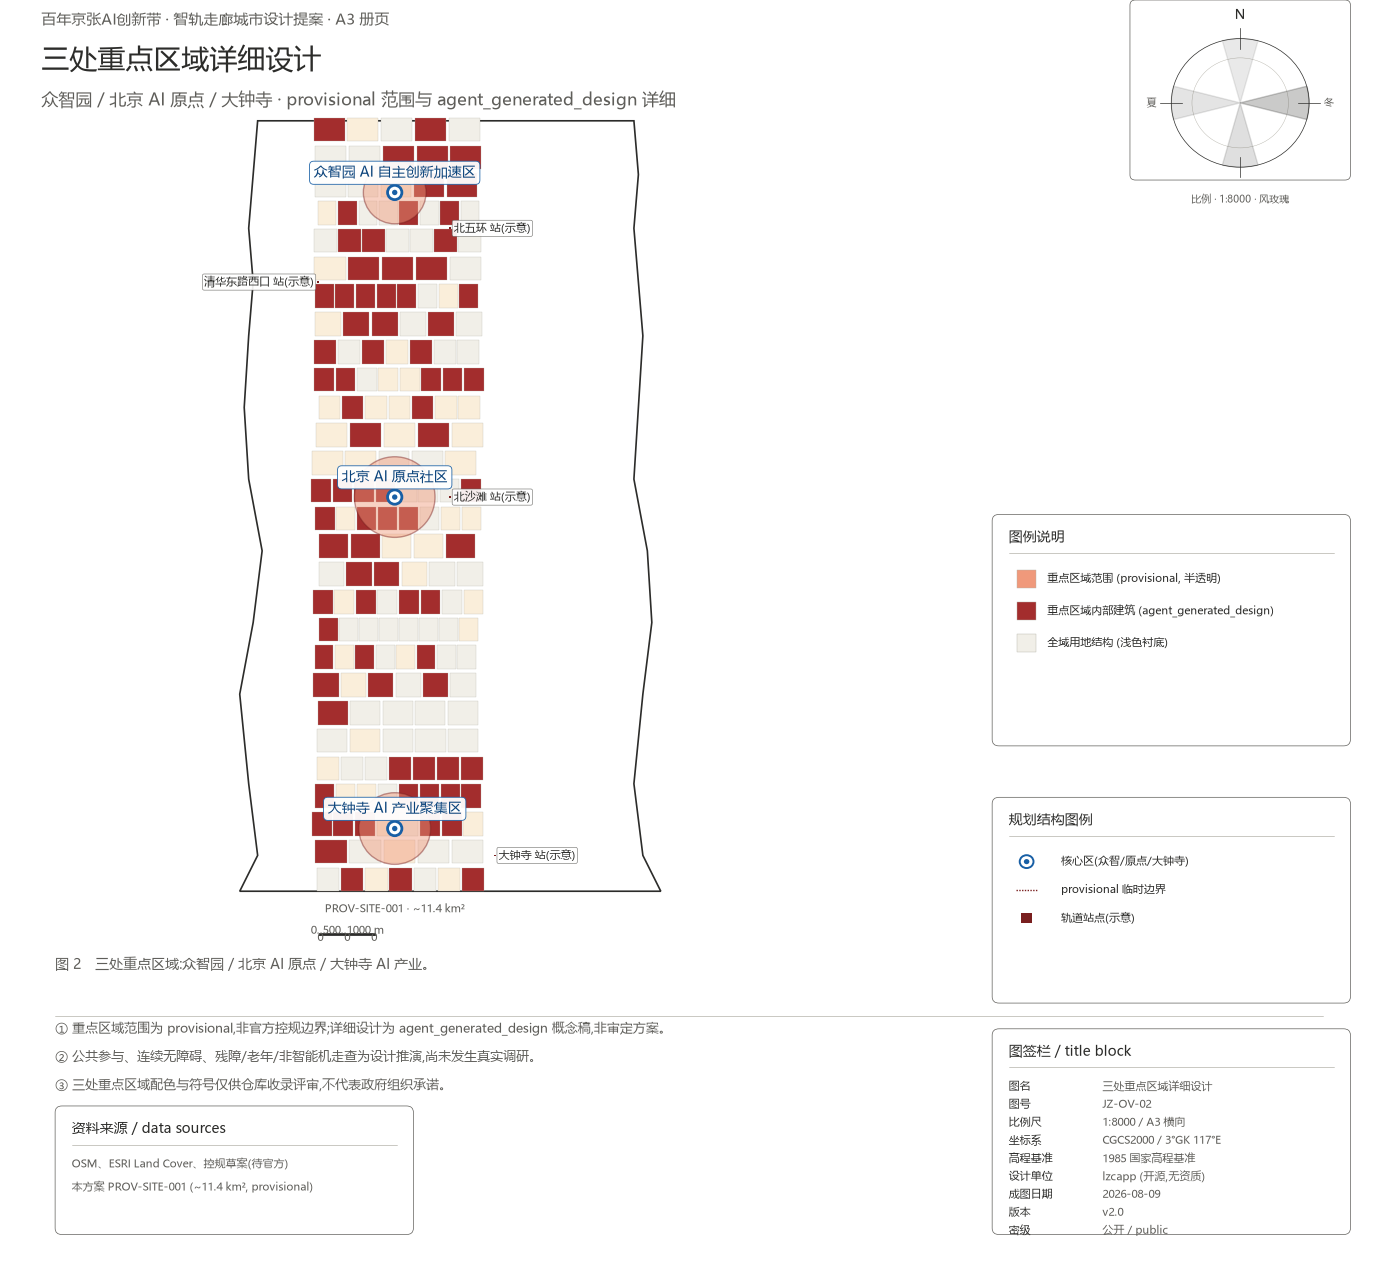
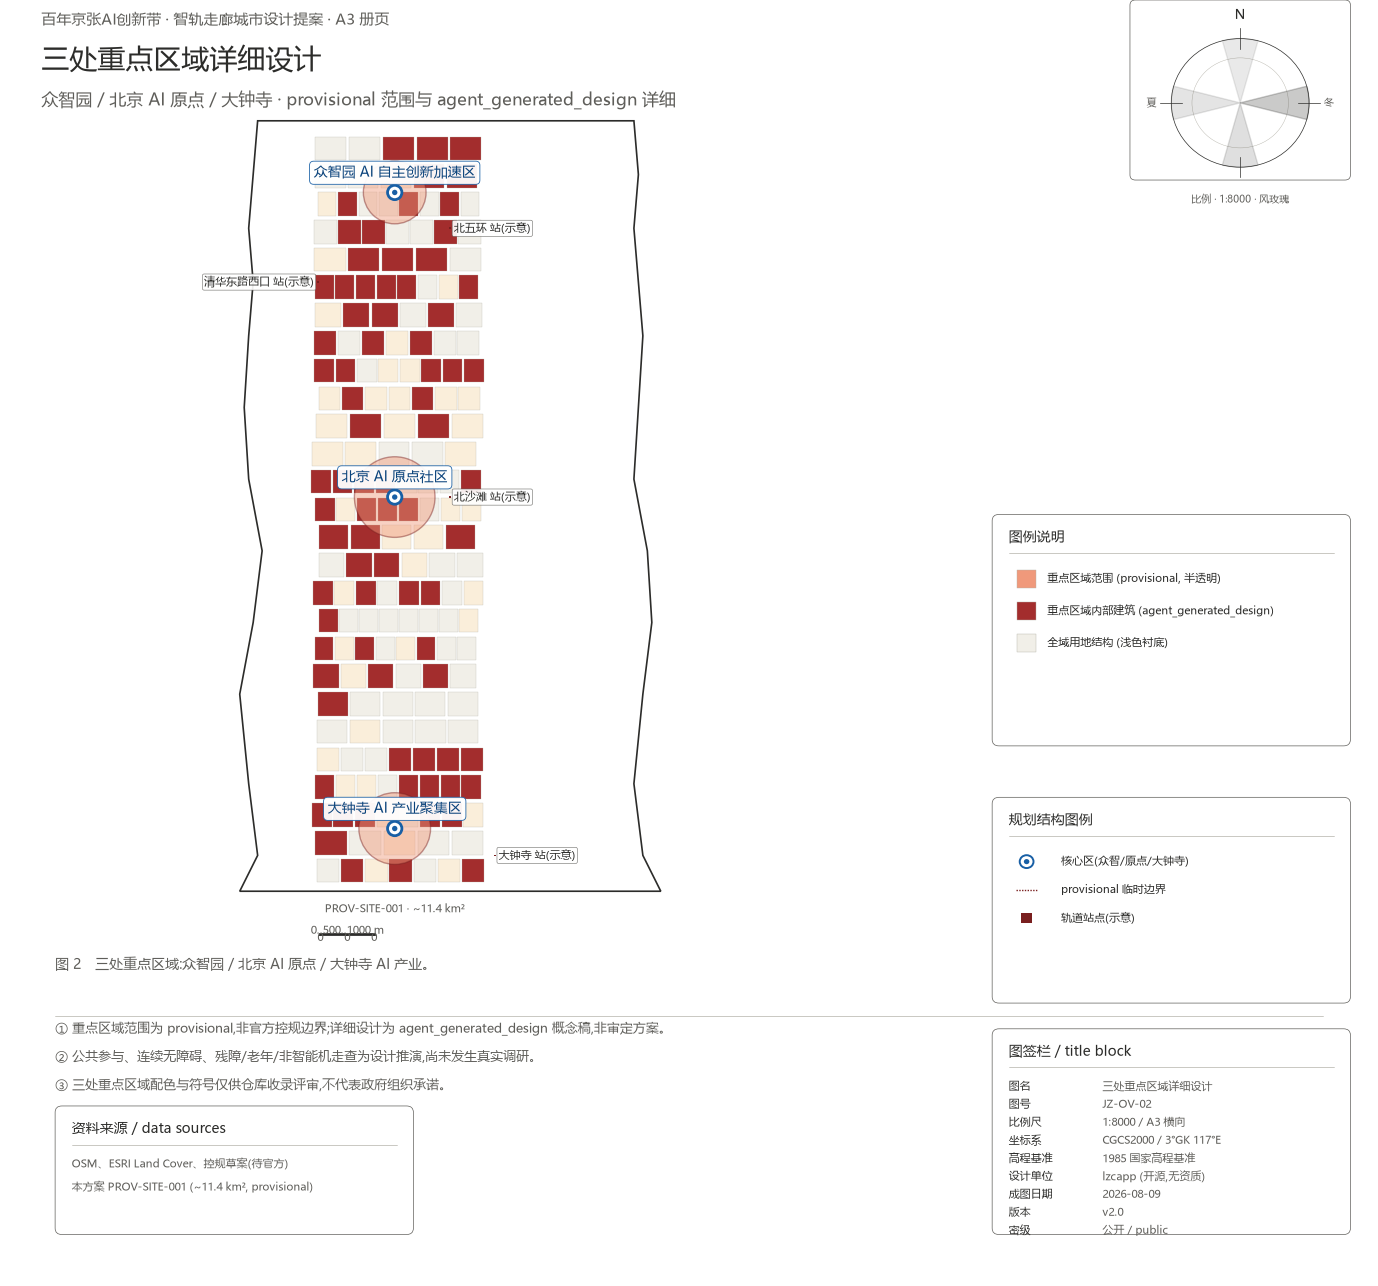
fix(lzcapp/jingzhang-ai-belt): figures v2.4 — 收网格 + 加横条 padding
两项溢出修:

1. key-areas.png 全编用地网格越框 — 走廊轮廓 y 顶 0.92, 网格 n_rows=28 + yc=0.06+27*0.031 使最后一行 cell 顶 0.9233, 越过框线 0.003。改 n_rows=27 + yc 起点 0.07, 最后 cell 顶 0.9024 < 0.92, 底 0.07 > 0.06, 走廊上下各留 ~0.018/0.020 边距, 视觉不再贴顶。

2. metrics-evidence.png 横条图右端 padding 偏小 — xlim 0..1300, 最长 bar (分期面积 1141.3 万㎡) 标签 '≈1141.3△' 在 x=1151, 距右沿仅 ~149 单位 (~4%), 偏贴边。改 xlim 0..1400 + xticks 加 1400, 标签距右沿 ~249 单位 (~17%), 留出阅读空间。

仅 key-areas.png 和 metrics-evidence.png 两图变化, site-overview / land-use-structure / mobility-bluegreen 三图未动 (v2.2/v2.3 状态)。validate_submission.py 仍 ok:true / errors:[], stage=formal。仍按既定规则走 fork 推送, 不开 PR。

Changed region(s): [[0.2184, 0.0933, 0.3745, 0.7154]]

diff --git a/build_figures_v2.py b/build_figures_v2.py
@@ -391,10 +391,10 @@ def build_fig_key_areas(out_path):
     ax = fig_axes(fig, (0.10, 0.62), (0.05, 0.94), x_off=0.04, y_off=0.30, w=0.58, h=0.62)
     corridor_outline(ax, color=PAL["tier0_text"], lw=1.2)
     rng = np.random.default_rng(43)
-    n_rows = 28
+    n_rows = 27
     row_h = 0.031
     for r in range(n_rows):
-        yc = 0.06 + r * row_h
+        yc = 0.07 + r * row_h
         x_start, x_end = 0.205 + rng.uniform(-0.005, 0.005), 0.39 - rng.uniform(-0.005, 0.005)
         n_cells = rng.integers(5, 9)
         cell_w = (x_end - x_start) / n_cells
@@ -575,7 +575,7 @@ def build_fig_metrics_evidence(out_path):
         "核心指标复算证据",
         "GeoJSON 投影面积 (EPSG:4548) · site/phasing 面积差 16.918 ㎡为 provisional 边界容差")
     ax = fig.add_axes([0.06, 0.30, 0.62, 0.55])
-    ax.set_xlim(0, 1300); ax.set_ylim(0, 7); ax.set_facecolor("white")
+    ax.set_xlim(0, 1400); ax.set_ylim(0, 7); ax.set_facecolor("white")
     metrics = [
         ("重点区域 (万㎡)", 369.3),
         ("分期面积 (万㎡)", 1141.3),
@@ -590,7 +590,7 @@ def build_fig_metrics_evidence(out_path):
         ax.barh(y, val, height=0.7, color=bar_color, edgecolor=PAL["tier0_text"], lw=0.3)
         text(ax, val + 10, y, f"≈{val}△", size=9, va="center", color=PAL["tier0_text"])
         text(ax, -5, y, label, size=9, ha="right", va="center", color=PAL["tier0_text"])
-    ax.set_xticks([0, 200, 400, 600, 800, 1000, 1200])
+    ax.set_xticks([0, 200, 400, 600, 800, 1000, 1200, 1400])
     ax.tick_params(axis="x", labelsize=8, colors=PAL["tier1_text"])
     ax.tick_params(axis="y", labelleft=False, length=0)
     ax.set_xlabel("面积 (万平方米)", fontsize=9, color=PAL["tier1_text"])
